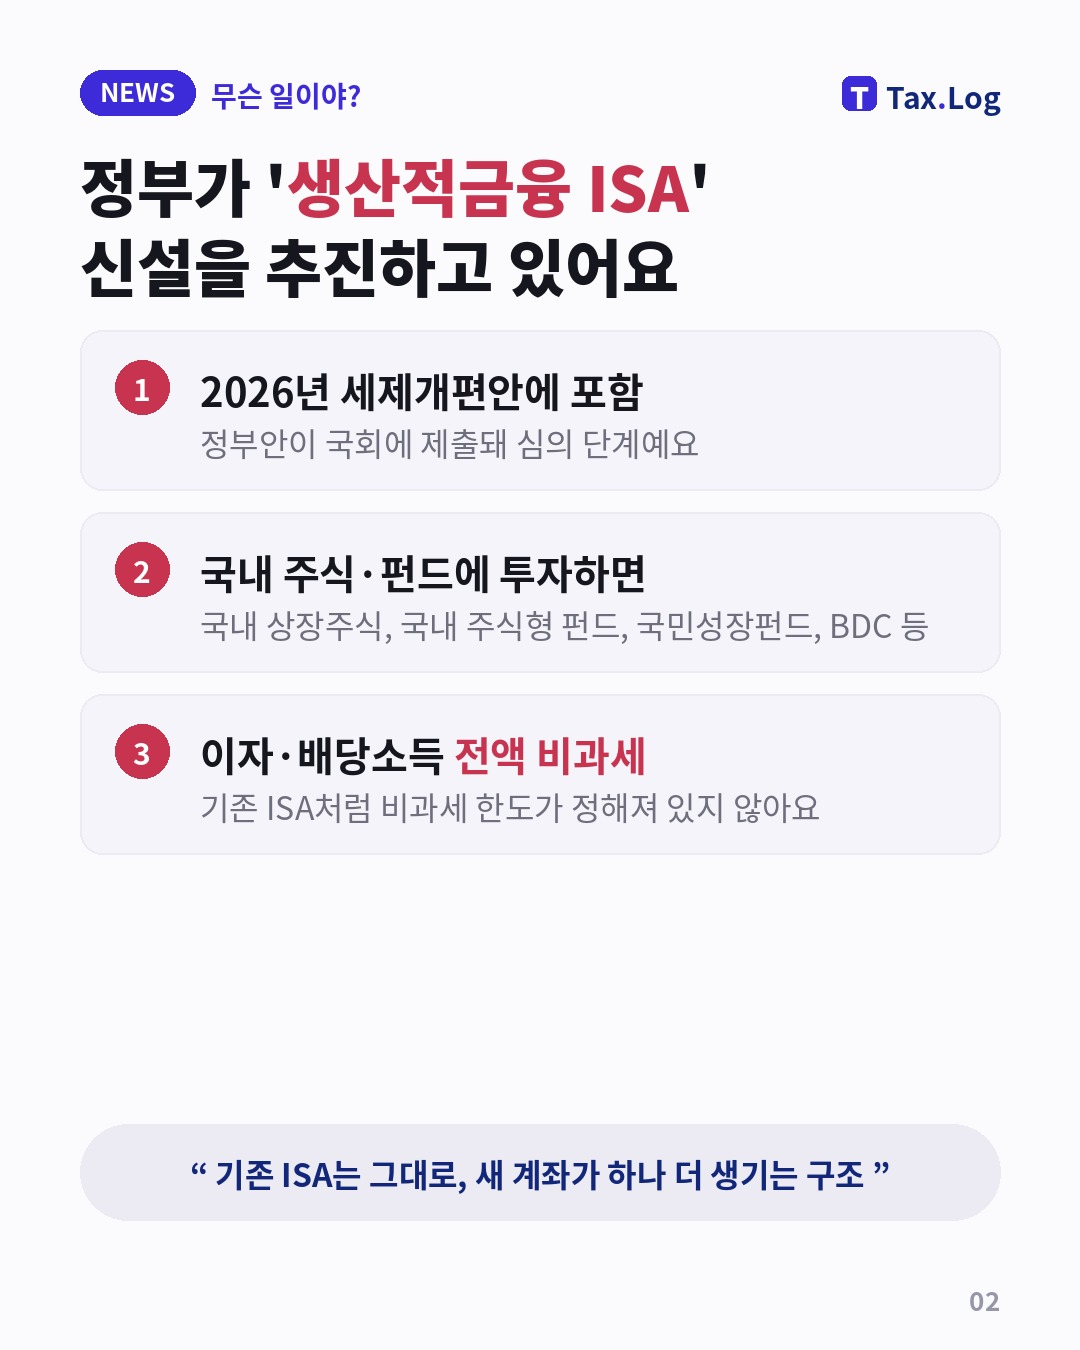
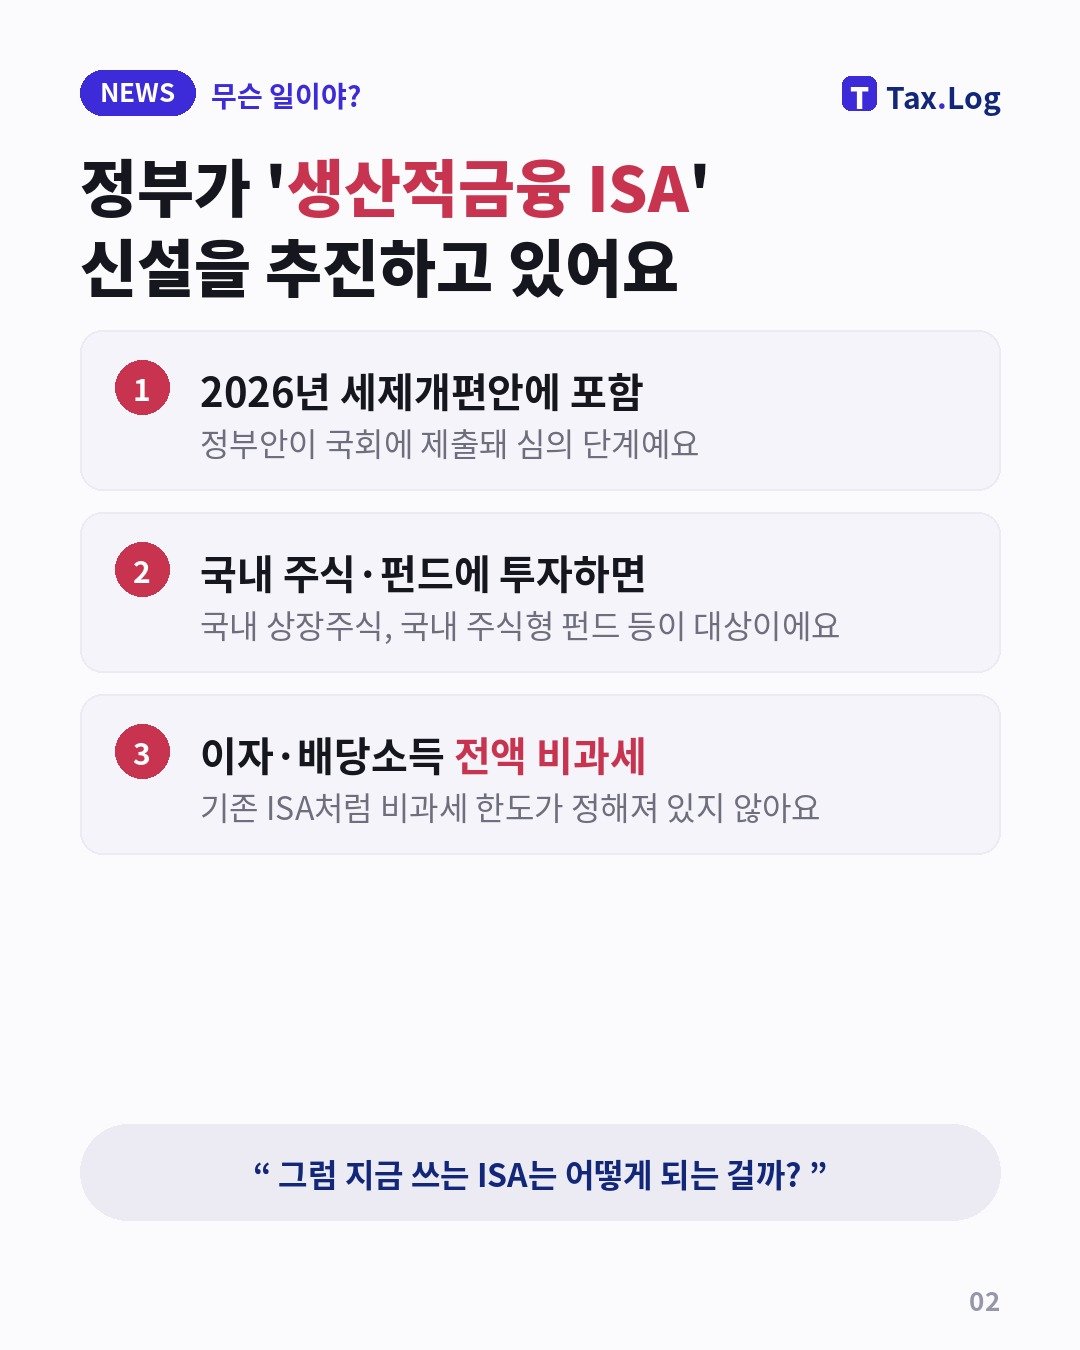
Teaser cards, detail page and index
Claude-Session: https://claude.ai/code/session_01MKGHoXYWSnD25XuDkLpggx

Changed region(s): [[0.1833, 0.84, 0.7944, 0.9022], [0.5806, 0.4356, 0.8556, 0.4978]]

diff --git a/posts/2026-11-06/index.html b/posts/2026-11-06/index.html
@@ -1,0 +1,51 @@
+<!DOCTYPE html>
+<html lang="ko">
+<head>
+<meta charset="utf-8">
+<meta name="viewport" content="width=device-width, initial-scale=1">
+<title>생산적금융 ISA 정리본 | Tax.Log</title>
+<link rel="stylesheet" href="../../style.css">
+</head>
+<body>
+<header class="top"><a href="../../" class="logo"><span>T</span>Tax<b>.</b>Log</a><span class="date">2026.11.06</span></header>
+<main>
+<span class="tag">★ 정부안 · 국회 심의 중</span>
+<h1>기존 ISA 가입자가 지금 체크할 <em>3가지</em></h1>
+<p class="lead">정부가 2026년 세제개편안에 담은 <b>생산적금융 ISA</b>는 국내 주식·국내 주식형 펀드 등에 투자하면 이자·배당소득을 한도 없이 비과세해 주는 새 계좌예요. 기존 ISA는 그대로 두고, 계좌가 하나 더 생기는 구조예요.</p>
+
+<section class="card">
+<div class="num">1</div>
+<h2>기존 ISA는 급하게 해지하지 마세요</h2>
+<p>생산적금융 ISA는 기존 ISA를 대체하는 게 아니라 <b>별도로 추가</b>되는 계좌예요. 아직 정부안 단계라 국회에서 내용이 바뀔 수 있고, 기존 ISA를 해지하면 그동안 쌓은 가입 기간도 사라져요.</p>
+</section>
+
+<section class="card">
+<div class="num">2</div>
+<h2>해외 ETF와 국내 배당주는 나눠 담는 그림</h2>
+<p>생산적금융 ISA는 <b>국내 자산만</b> 담을 수 있어요(국내 상장 해외 ETF 불가). 그래서 증권업계에서는 이렇게 역할을 나누는 방법이 거론돼요.</p>
+<table>
+<tr><th>일반 ISA (현행)</th><th>생산적금융 ISA (정부안)</th></tr>
+<tr><td>미국 S&amp;P500 등 국내 상장 해외 ETF</td><td>국내 배당주 · 국내 주식형 펀드</td></tr>
+<tr><td>비과세 200만 원 (서민형 400만 원), 초과분 9.9% 분리과세</td><td>이자·배당소득 전액 비과세</td></tr>
+<tr><td>총 납입한도 1억 원</td><td>총 납입한도 2억 원 (연 2,000만 원)</td></tr>
+</table>
+</section>
+
+<section class="card">
+<div class="num">3</div>
+<h2>확정 시점과 꼭 확인할 조건</h2>
+<ul>
+<li><b>시행 목표:</b> 2027년 1월 1일 이후 신규 가입분부터 (정부안 기준)</li>
+<li><b>의무 기간:</b> 3년 안에 원금을 넘겨 인출하면 해지로 보고 비과세분을 추징</li>
+<li><b>청년형:</b> 15~34세, 총급여 7,500만 원 이하면 납입금의 10% 소득공제 추가</li>
+<li><b>만기 후:</b> 만기 자금을 연금계좌로 옮기면 연 1,800만 원 한도와 별도로 추가 납입 가능</li>
+<li><b>확정:</b> 세법은 보통 연말 국회에서 확정돼요. 확정되면 다시 정리해 드릴게요.</li>
+</ul>
+</section>
+
+<p class="src">출처: 정부 2026년 세제개편안, 택스넷·토스뱅크·파이낸셜뉴스 정리 (2026.8~9)</p>
+<p class="disc">본 자료는 일반 정보 제공 목적이며 개인별 세무·투자 자문이나 특정 상품 권유가 아닙니다. 정부안 내용은 국회 심의 과정에서 달라질 수 있으니 가입 전 최신 기준을 확인하세요.</p>
+<a class="follow" href="https://www.instagram.com/taxlog_woo/">@taxlog_woo 팔로우하고 다음 소식 받기</a>
+</main>
+</body>
+</html>

diff --git a/style.css b/style.css
@@ -1,0 +1,27 @@
+@import url('https://fonts.googleapis.com/css2?family=Noto+Sans+KR:wght@400;500;700;900&display=swap');
+*{box-sizing:border-box;margin:0;padding:0}
+body{font-family:'Noto Sans KR',sans-serif;background:#FBFBFD;color:#16161E;line-height:1.65;-webkit-font-smoothing:antialiased}
+.top{display:flex;justify-content:space-between;align-items:center;padding:18px 20px;background:#0D0B28}
+.logo{color:#fff;text-decoration:none;font-weight:700;font-size:18px;display:flex;align-items:center;gap:8px}
+.logo span{background:#3D2BD9;border-radius:6px;width:24px;height:24px;display:inline-flex;align-items:center;justify-content:center;font-weight:900;font-size:15px}
+.logo b{color:#E8C77A}
+.date{color:#8C8CB4;font-size:13px}
+main{max-width:640px;margin:0 auto;padding:28px 20px 60px}
+.tag{display:inline-block;background:#FFE58A;border-radius:999px;padding:4px 14px;font-size:13px;font-weight:700}
+h1{font-size:28px;font-weight:900;line-height:1.35;margin:14px 0 12px}
+h1 em{font-style:normal;color:#C8334F}
+.lead{color:#444;margin-bottom:24px}
+.card{background:#fff;border:1px solid #E2E0EC;border-radius:16px;padding:22px 20px;margin-bottom:16px;position:relative}
+.num{width:32px;height:32px;border-radius:50%;background:#C8334F;color:#fff;font-weight:700;display:flex;align-items:center;justify-content:center;margin-bottom:10px}
+h2{font-size:19px;font-weight:700;margin-bottom:8px}
+.card p{color:#333}
+ul{padding-left:18px}li{margin:6px 0}
+table{width:100%;border-collapse:collapse;margin-top:12px;font-size:14px}
+th{background:#3D2BD9;color:#fff;padding:9px;text-align:left}
+th+th{background:#12277A}
+td{border-bottom:1px solid #ECEAF3;padding:9px;vertical-align:top;width:50%}
+.list a{display:block;background:#fff;border:1px solid #E2E0EC;border-radius:14px;padding:16px 18px;margin-bottom:12px;text-decoration:none;color:#16161E}
+.list small{color:#6E6E7D}
+.src{font-size:13px;color:#6E6E7D;margin-top:24px}
+.disc{font-size:12px;color:#8A8A99;background:#F5F4FA;border-radius:10px;padding:12px;margin:12px 0 20px}
+.follow{display:block;text-align:center;background:#16133F;color:#E8C77A;font-weight:700;border-radius:999px;padding:14px;text-decoration:none}

diff --git a/index.html b/index.html
@@ -1,0 +1,21 @@
+<!DOCTYPE html>
+<html lang="ko">
+<head>
+<meta charset="utf-8">
+<meta name="viewport" content="width=device-width, initial-scale=1">
+<title>Tax.Log 정리본 모음</title>
+<link rel="stylesheet" href="style.css">
+</head>
+<body>
+<header class="top"><a href="./" class="logo"><span>T</span>Tax<b>.</b>Log</a><span class="date">@taxlog_woo</span></header>
+<main>
+<h1>게시물 <em>정리본</em> 모음</h1>
+<p class="lead">인스타그램 게시물의 전체 내용을 최신순으로 모았어요.</p>
+<div class="list">
+<!-- POSTS -->
+<a href="posts/2026-11-06/"><b>ISA가 하나 더 생길 수도 있어요 · 생산적금융 ISA</b><br><small>2026.11.06</small></a>
+</div>
+<p class="disc">일반 정보 제공 목적이며 개인별 세무·투자 자문이나 특정 상품 권유가 아닙니다.</p>
+</main>
+</body>
+</html>

diff --git a/make_cards.py b/make_cards.py
@@ -279,6 +279,42 @@ def s_action(s, i, n):
     return im
 
 
+def s_cta(s, i, n):
+    """잠긴(블러) 카드로 궁금증 유발 + 댓글 키워드 안내."""
+    from PIL import ImageFilter
+    im = Image.new("RGB", (W, H), DEEP2)
+    d = ImageDraw.Draw(im)
+    logo(d, W - M - logo_w(d), 76, dark=True)
+    y = 170
+    d.rectangle([M, y, M + 60, y + 4], fill=GOLD)
+    y = block(d, M, y + 36, s.get("title", ""), F("Black", 66), WHITE, W - 2 * M, 1.3, s.get("highlight"), GOLD) + 40
+    for k, c in enumerate(s.get("locked", []), 1):
+        h = 150
+        d.rounded_rectangle([M, y, W - M, y + h], radius=22, fill=(38, 34, 92), outline=(70, 64, 140), width=2)
+        cx, cy = M + 60, y + h // 2
+        d.ellipse([cx - 26, cy - 26, cx + 26, cy + 26], fill=GOLD)
+        nf = F("Bold", 28)
+        d.text((cx - d.textlength(str(k), font=nf) / 2, cy - 20), str(k), font=nf, fill=INK)
+        # 흐리게 처리한 본문
+        layer = Image.new("RGB", (W - 2 * M - 140, h - 40), (38, 34, 92))
+        ld = ImageDraw.Draw(layer)
+        block(ld, 0, 6, c, F("Bold", 36), WHITE, layer.width, 1.35)
+        layer = layer.filter(ImageFilter.GaussianBlur(9))
+        im.paste(layer, (M + 110, y + 20))
+        d = ImageDraw.Draw(im)
+        lf = F("Bold", 26)
+        pill(d, W - M - 150, y + h // 2 - 23, "🔒 잠김" if False else "LOCK", lf, GOLD, INK, padx=18)
+        y += h + 20
+    y += 30
+    kw = s.get("keyword", "알려줘")
+    y = block(d, M, y, s.get("cta", f"댓글에 '{kw}' 남겨주시면\nDM으로 정리본 보내드려요"), F("Bold", 46), WHITE,
+              W - 2 * M, 1.4, f"'{kw}'", YELLOW, align="center")
+    block(d, M, H - 150, "본 콘텐츠는 일반 정보 제공 목적이며 개인별 세무·투자 자문이 아닙니다. 정부안·법안은 국회 심의 과정에서 달라질 수 있습니다.",
+          F("Regular", 24), (150, 150, 185), W - 2 * M, 1.5)
+    page(d, i, n, dark=True)
+    return im
+
+
 def s_outro(s, i, n):
     im = Image.new("RGB", (W, H), DEEP2)
     d = ImageDraw.Draw(im)
@@ -303,7 +339,7 @@ def main(spec_path, out_dir):
     slides = spec["slides"]
     n = len(slides)
     os.makedirs(out_dir, exist_ok=True)
-    fn = {"list": s_list, "compare": s_compare, "stat": s_stat, "action": s_action}
+    fn = {"list": s_list, "compare": s_compare, "stat": s_stat, "action": s_action, "cta": s_cta}
     paths = []
     for i, s in enumerate(slides, 1):
         t = s.get("type", "list")
